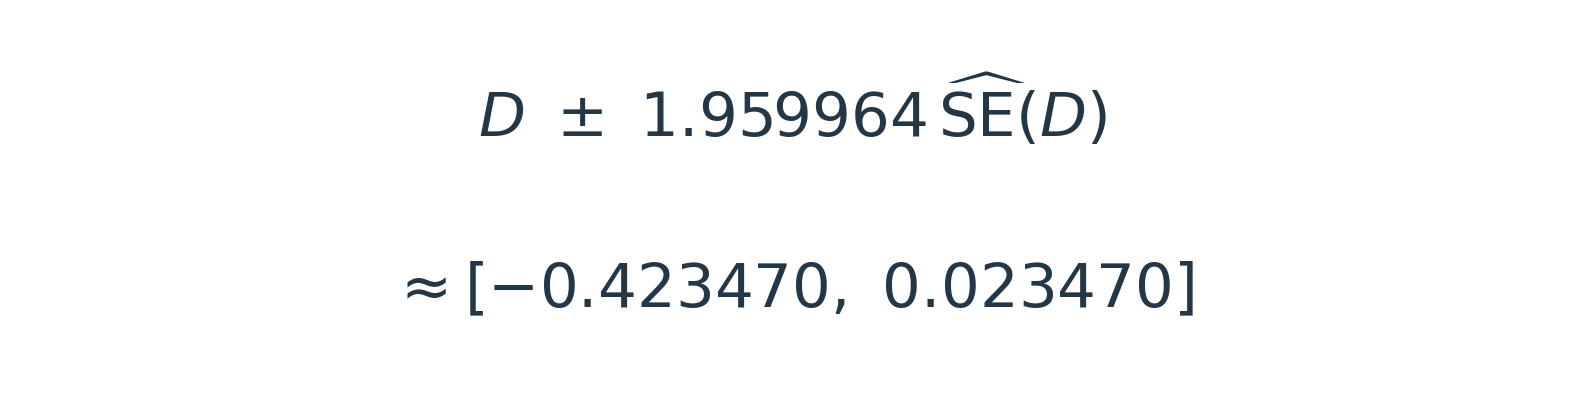
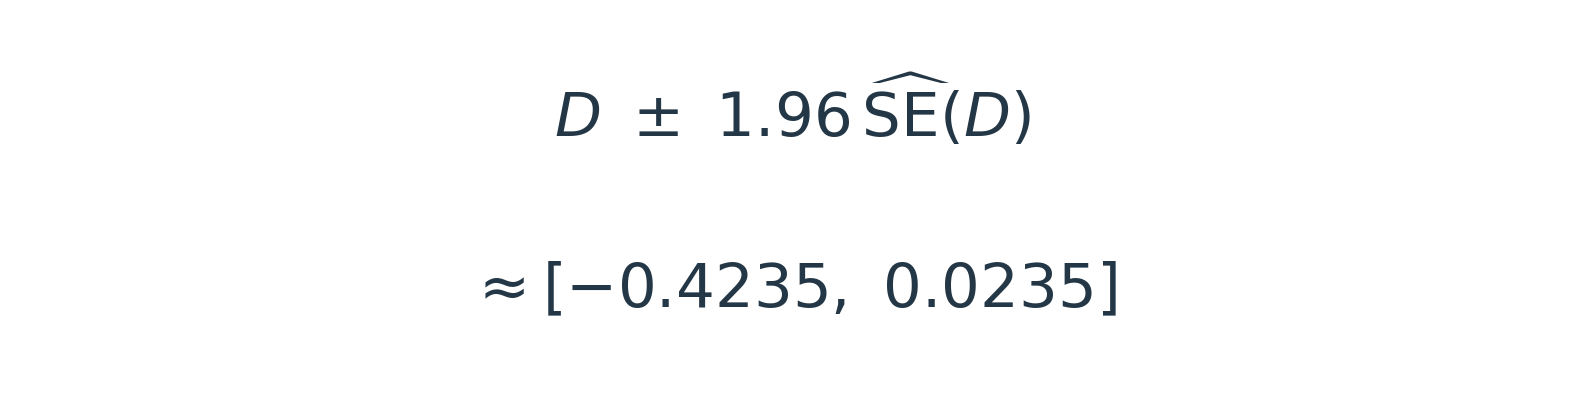
Update article 28 paired exact CI microedits

diff --git a/stats_classroom/paired_proportion_exact_ci/文章/配对率差的精确区间_手机预览.html b/stats_classroom/paired_proportion_exact_ci/文章/配对率差的精确区间_手机预览.html
@@ -33,7 +33,7 @@ table.paired-counts{width:100%;table-layout:fixed;border-collapse:collapse;borde
 <h2>三、四种构造，各自怎样得到区间？</h2>
 <h3>（一）Wald：点估计加减“临界值乘标准误”</h3>
 <p>Wald用“点估计±临界值×标准误”构造区间。标准误描述样本率差的抽样波动；将上一篇配对方差中的总体概率换成样本比例，本例估计的标准误约为0.11402。双侧95%的正态临界值约为1.96，因此得到：</p>
-<p><img src="%E6%96%87%E7%AB%A0%E9%85%8D%E5%9B%BE/%E6%AF%94%E8%BE%83%E5%85%AC%E5%BC%8F02_Wald%E5%8C%BA%E9%97%B4.png" alt="式（1） 本例的配对Wald区间"></p>
+<p><img src="%E6%96%87%E7%AB%A0%E9%85%8D%E5%9B%BE/%E6%AF%94%E8%BE%83%E5%85%AC%E5%BC%8F02_Wald%E5%8C%BA%E9%97%B4.png" alt="式（1） D ± 1.96 × 标准误估计值，区间约为−0.4235至0.0235"></p>
 <p><em>式（1）｜在D＝−0.20两侧各加减约1.96倍标准误。本篇采用分母n的方差估计，与表2的Wald实现一致。</em></p>
 <p>这个算法简便，但小样本或变化人数很少时，正态近似和插件标准误的表现可能不好。例如样本中人人都不变，插件方差就会等于0，Wald区间也会缩成一点。<strong>本篇用Wald作理解公式的参照，不把它作为小样本配对资料的默认选择</strong><sup>[2,3]</sup>。</p>
 <h3>（二）配对Newcombe：从两个率的区间合并</h3>
@@ -46,7 +46,7 @@ table.paired-counts{width:100%;table-layout:fixed;border-collapse:collapse;borde
 <h3>（四）Wang：按有限样本概率控制漏失</h3>
 <p>Wang承接上一篇的有限样本分布：考虑各种可能的人数组合及其概率，同时处理未知的总体变化概率，确定使区间未包含真值的概率受到控制的端点<sup>[5]</sup>。</p>
 <p><strong>在本篇独立、同分布配对记录的有限样本模型下，精确Wang构造的双侧覆盖至少达到95%。</strong> 样本结果离散，实际覆盖还可能更高。本例得到−44.92至6.30个百分点。</p>
-<p>这里“精确”说的是有限样本模型下的覆盖要求。现成函数<code>PairedCI()</code>用数值搜索求端点，输出还受计算精度影响<sup>[5,6]</sup>。</p>
+<p>这里“精确”说的是有限样本模型下的覆盖要求。R包<code>ExactCIdiff</code>中的<code>PairedCI()</code>函数用数值搜索求端点，输出还受计算精度影响<sup>[5,6]</sup>。</p>
 <h2>四、用软件复算，三种语言各有哪些工具？</h2>
 <p>先用R复算表2的前三种区间。<code>ratesci::rdpairci()</code>要求四个格子按条件1、条件2组织。<strong>本题把条件1设为后测、条件2设为前测，b代表阴转阳，c代表阳转阴。</strong> 输入依次是：两次均阳性8人、仅后测阳性1人、仅前测阳性5人、两次均阴性6人<sup>[2]</sup>。</p>
 <pre><code>x &lt;- c(a = 8, b = 1, c = 5, d = 6)
@@ -70,9 +70,9 @@ wang$ExactCI</code></pre>
 <p><code>CItype = &quot;Two.sided&quot;</code>选择双侧形式；<code>$estimate</code>返回−0.20，<code>$ExactCI</code>返回约[−0.44923，0.06303]。把这行与前面三行合并，就得到表2。</p>
 <p><strong><u>针对本系列涉及的专门统计区间，R有较丰富的现成函数和参数选择，适合作为主要计算语言。</u></strong> 本篇用<code>rdpairci()</code>比较多种配对区间，用<code>PairedCI()</code>计算Wang区间；置信水平、区间侧别、校正设置或数值精度，也都能通过相应参数指定，便于围绕同一份资料组织计算<sup>[2,6]</sup>。</p>
 <p><strong>Python</strong>方面，statsmodels开发版的<code>confint_proportions_paired()</code>支持Wald和Newcombe两种构造，输入是配对四格表；用本篇资料核对，所得端点与表2相符。0.15.0正式版尚未包含该接口，所附Python脚本采用Wald公式复算；开发版接口可用于进一步扩展Newcombe计算<sup>[8]</sup>。</p>
-<p><strong>MATLAB</strong>的Statistics and Machine Learning Toolbox可用<code>norminv</code>计算Wald所需的正态分位数；<code>bootci</code>则可对整行配对记录重抽样，计算bootstrap区间<sup>[9,10]</sup>。所附MATLAB脚本用基础函数复算Wald，并比较置信水平变化；表2四种构造的完整比较由R入口完成。</p>
+<p><strong>MATLAB</strong>的Statistics and Machine Learning Toolbox可用<code>norminv</code>计算Wald所需的正态分位数；<code>bootci</code>则可对整行配对记录重抽样，计算bootstrap区间<sup>[9,10]</sup>。所附MATLAB脚本用基础函数复算Wald，并比较置信水平变化。</p>
 <h2>五、读表2的区间时，重点比较什么？</h2>
-<p><strong>先看区间容纳哪些总体差异。</strong> 本例四个区间都包含负值、0和正值：点估计提示下降20个百分点，资料仍容纳没有净变化及一定程度的上升，总体变化方向尚有不确定性。</p>
+<p><strong>先看区间是否包含0。</strong> 本例样本阳性率下降20个百分点，但四个95%置信区间都包含0。<strong>按相应的双侧检验，在5%的显著性水平下，这一下降不具有统计学显著性，尚不能据此认定总体阳性率下降。</strong></p>
 <p><strong>再看宽度，并同时看覆盖性质。</strong> 本例Wald最窄、Wang最宽，但窄区间的价值取决于它是否具有所要求的覆盖表现。一个方法若经常漏掉真值，即使区间较窄，也不能据此判为更好；另一方法在本例较宽，也不表示它在所有资料中都最宽。</p>
 <p><strong>比较要固定设计、方向、置信水平和校正设置。</strong> 方法选择应依据研究设计与覆盖要求事先说明，报告时写出所用构造、点估计和区间。</p>
 <h2>六、本篇讲了哪些知识？</h2>
